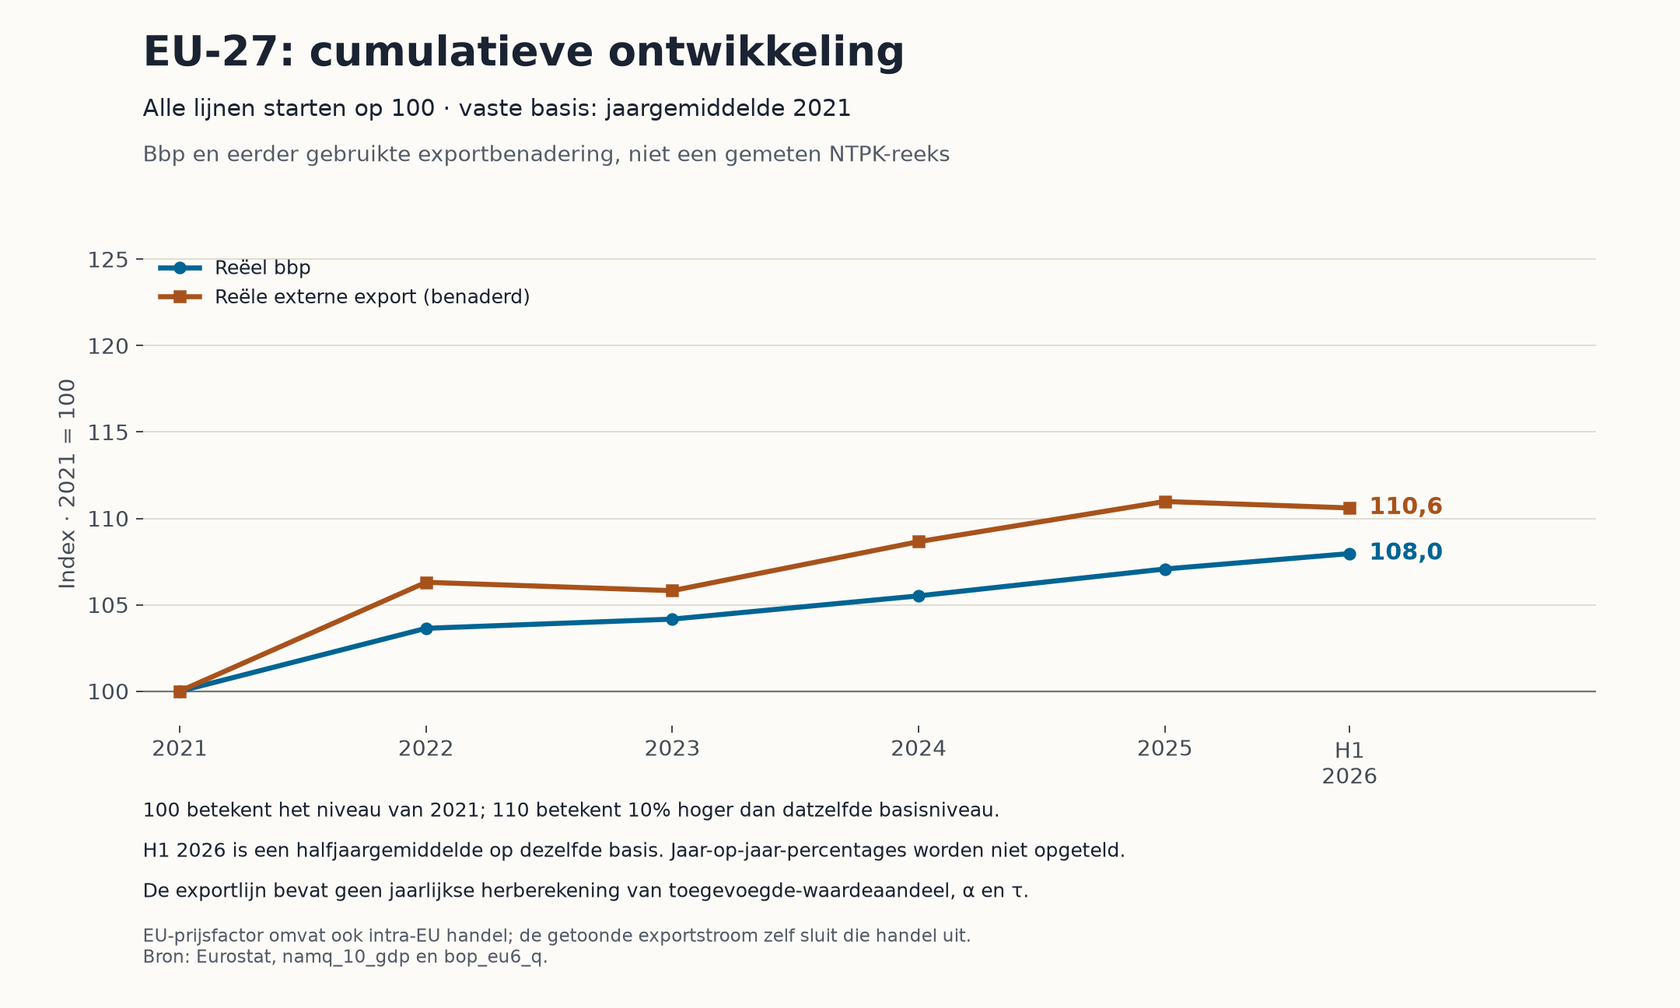
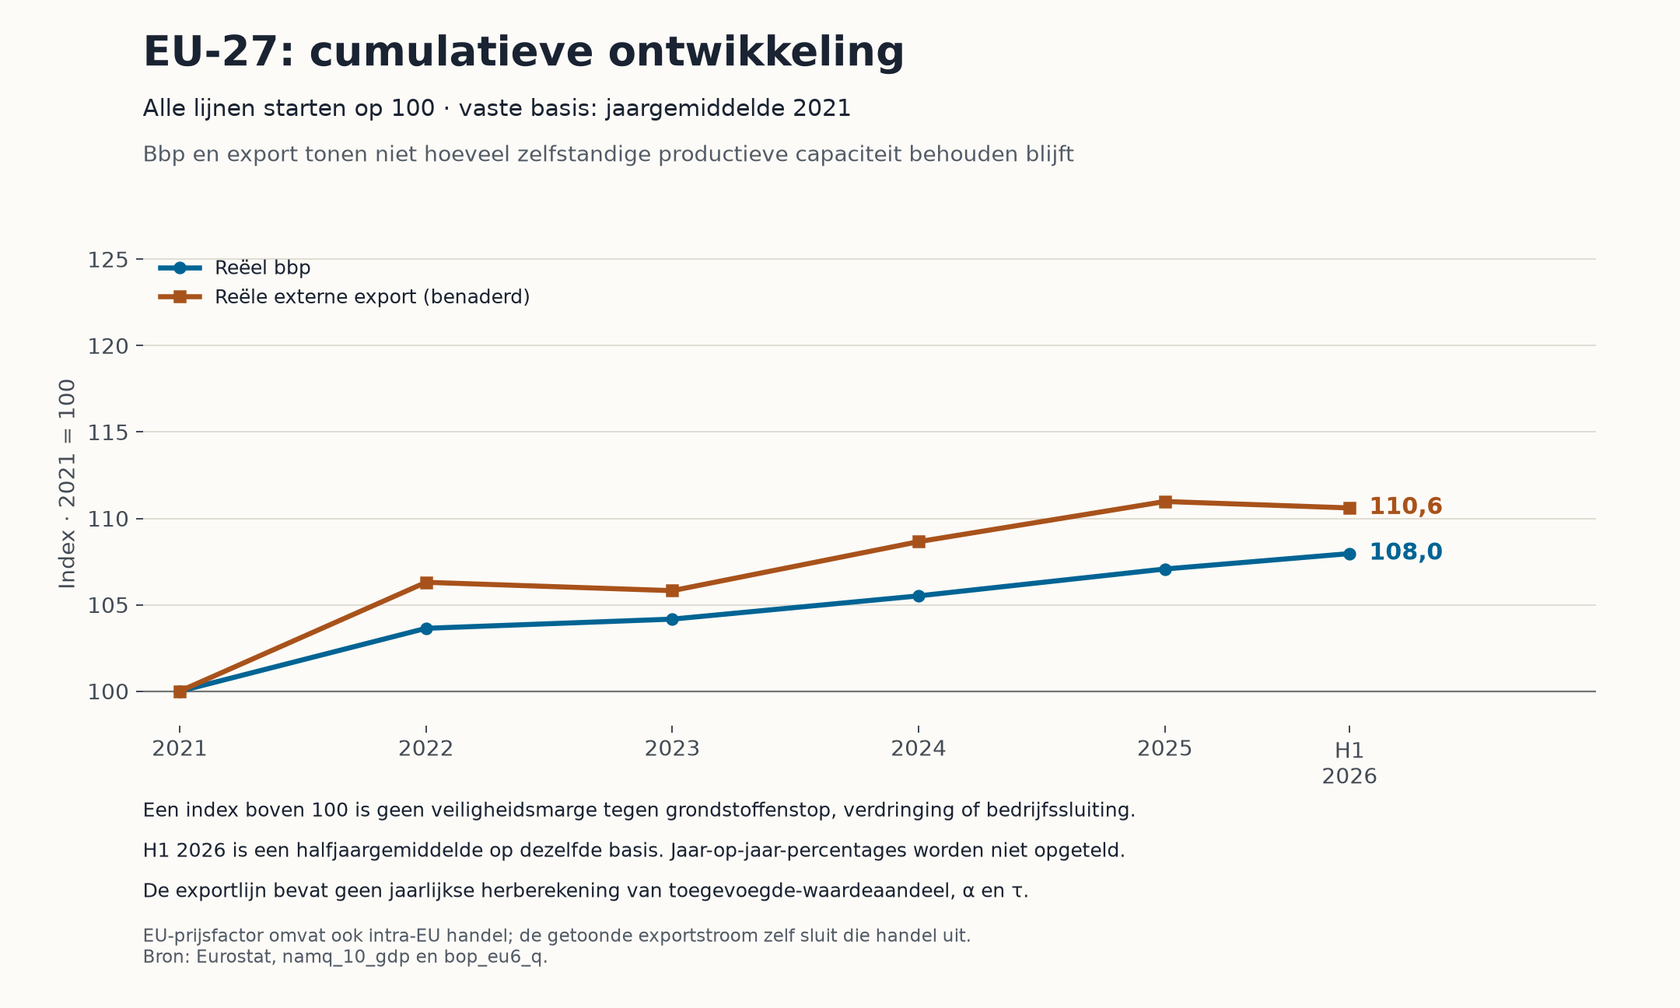
Herwerk China-risico en trek ongefundeerde NTPK-doortrekking in

Changed region(s): [[0.1551, 0.1235, 0.5894, 0.1852], [0.0931, 0.7716, 0.6514, 0.8333]]

diff --git a/nl/wat-opkomt/van-uitholling-naar-wederopbouw.html b/nl/wat-opkomt/van-uitholling-naar-wederopbouw.html
@@ -431,23 +431,27 @@ pensioenpotten, spaargeld, woningen en bedrijven. Een langzame
 uitholling is gevaarlijker dan een snelle crisis, omdat elke stap nog
 draaglijk lijkt en niemand ingrijpt, terwijl het verloren gaat wat nog
 te redden was.</p>
-<h3 id="europa-groeikloof">2.10 De cumulatieve groeikloof tussen Europa en de VS</h3>
-<p>Losse groeipercentages laten niet zien welk verschil zich over meerdere jaren opbouwt. Daarom beginnen alle ontwikkelingslijnen hier bij dezelfde startwaarde: <strong>het jaargemiddelde van 2021 is 100</strong>. De index voor iedere latere periode is 100 maal het reële niveau in die periode gedeeld door het reële jaargemiddelde van 2021. De basis verandert niet bij de overgang naar een halfjaar. De vergelijking betreft de Verenigde Staten en de EU-27. [73–76]</p>
-<p><strong>M/S. Het bbp is statistisch gemeten; de andere lijn is de eerder gebruikte exportbenadering, geen volledige NTPK-meting.</strong> Voor de VS gaat het om de reële uitvoer; voor de EU om extra-EU uitvoer, prijsgecorrigeerd met de prijsfactor van de totale uitvoer. Alleen de exportstroom is hier in de tijd berekend. Binnenlandse toegevoegde-waardeaandelen, productieve fractie α en lastendruk τ zijn niet jaarlijks opnieuw vastgesteld. Hun veranderingen kunnen de werkelijke NTPK anders laten verlopen. Deze ontbrekende berekening wordt niet vervangen door een NTPK-label. [73–76]</p>
-<figure class="growth-figure"><a href="/assets/wat-opkomt/van-uitholling-groei/VS-BBP-en-NTPK-trend.png?v=cumulatief-100" rel="noopener noreferrer" target="_blank"><img alt="Cumulatieve ontwikkeling Verenigde Staten, 2021 is 100. H1 2026: reëel bbp 112,5 en reële export 120,7. De exportlijn is geen volledige NTPK-meting." height="1296" loading="lazy" src="/assets/wat-opkomt/van-uitholling-groei/VS-BBP-en-NTPK-trend.png?v=cumulatief-100" width="2160"/></a><figcaption>Verenigde Staten: beide lijnen starten op 100. De punten voor 2021–2025 zijn jaargemiddelden; H1 2026 is het halfjaargemiddelde op dezelfde vaste basis.</figcaption></figure>
-<figure class="growth-figure"><a href="/assets/wat-opkomt/van-uitholling-groei/EU27-BBP-en-NTPK-trend.png?v=cumulatief-100" rel="noopener noreferrer" target="_blank"><img alt="Cumulatieve ontwikkeling EU-27, 2021 is 100. H1 2026: reëel bbp 108,0 en externe-exportbenadering 110,6. De exportbenadering ligt nog boven 2021 en is cumulatief sterker gestegen dan het bbp." height="1296" loading="lazy" src="/assets/wat-opkomt/van-uitholling-groei/EU27-BBP-en-NTPK-trend.png?v=cumulatief-100" width="2160"/></a><figcaption>EU-27: de exportbenadering valt recent iets terug, maar staat nog boven het niveau van 2021. Zij bewijst geen onafgebroken afbraak van de productieve kern.</figcaption></figure>
-<p>Op deze vaste basis bereikt het Amerikaanse bbp in H1 2026 een index van 112,5 en het Europese bbp 108,0: respectievelijk ongeveer 12,5% en 8,0% boven het jaargemiddelde van 2021. De exportlijnen staan op 120,7 voor de VS en 110,6 voor de EU. De Europese exportbenadering is sinds 2021 dus cumulatief sterker gestegen dan het Europese bbp. Voor de EU blijft de exportprijscorrectie een benadering: de prijsfactor omvat ook intra-EU handel, hoewel de getoonde exportstroom die handel uitsluit. [73–76]</p>
-<p><strong>De waarschuwing is een relatieve achterstand en recente verzwakking, niet een bewezen jarenlange instorting.</strong> De VS lopen in deze reeksen verder uit op Europa; in de Europese exportbenadering is bovendien een recente terugval zichtbaar. Maar de formulering “groei zonder versterking” ging op grond van deze grafieken te ver: de cumulatieve exportlijn ligt nog boven haar startniveau. Evenmin rechtvaardigt een exportbenadering op zichzelf een uitspraak over de volledige NTPK. Voor zo’n uitspraak moeten de jaarlijkse omzettingsfactoren worden meegerekend.</p>
-<p>Ook de mogelijkheid om bedrijven te vernieuwen telt mee. De OECD constateert dat buitensporige of onvoorspelbare ontslagkosten de verplaatsing van arbeid naar productievere activiteiten kunnen remmen, maar wijst ook op de waarde van behoud van bedrijfsspecifieke kennis. Dat ondersteunt de aandacht voor aanpassingsvermogen, zonder dat deze grafieken bewijzen welk deel van de groeikloof door ontslagbescherming of door één regering is veroorzaakt. [79]</p>
-<h3 id="groei-vooruitblik-2027">2.11 Verdere ontwikkelingslijnen naar 2027</h3>
-<p><strong>S. Vanaf H2 2026 zijn de lijnen gestippeld: het zijn ramingen en scenario’s, geen waarnemingen.</strong> Voor het bbp blijven de eerder gebruikte voorjaarsramingen 2026 van de Europese Commissie gehandhaafd: volledige jaargroei van 2,2% voor de VS en 1,1% voor de EU in 2026, gevolgd door 2,1% en 1,4% in 2027. De informatiegrens van deze ramingen is 4 mei 2026. Deze vaste ramingsversie is een rekenbasis, niet een nieuwe voorspelling op basis van alle informatie van eind september. [77]</p>
-<p>De bbp-index voor H2 2026 volgt uit twee maal het geraamde jaargemiddelde van 2026 minus het waargenomen gemiddelde van H1 2026. Voor 2027 wordt vervolgens het geraamde jaargemiddelde van 2026 met de officiële jaargroeivoet vermenigvuldigd. Een jaar-op-jaar-groeipercentage voor H1 wordt dus niet nogmaals boven op het volledige voorgaande jaar gezet. Met de vaste basis 2021 = 100 komt de bbp-index in 2027 uit op ongeveer 115,6 voor de VS en 109,8 voor de EU. [73, 74, 77]</p>
-<p>De verdere exportlijn is alleen een <strong>mechanisch als-dan-scenario</strong>: dezelfde jaar-op-jaar-verandering als in H1 2026 wordt toegepast op H2 2025 om H2 2026 te verkrijgen, en daarna op het jaargemiddelde van 2026 om 2027 te verkrijgen. De VS komen daarin op 127,1 en de EU op 107,8 in 2027. Dit is geen zelfstandige exportprognose en geen berekende NTPK-prognose. Het scenario laat zien wat voortzetting van de recente groeivoet zou betekenen, niet wat zeker of het waarschijnlijkst zal gebeuren. [75, 76]</p>
-<figure class="growth-figure"><a href="/assets/wat-opkomt/van-uitholling-groei/Vooruitblik-groei-H2-2026-2027.png?v=cumulatief-100" rel="noopener noreferrer" target="_blank"><img alt="Alle lijnen starten in 2021 op 100. Historie is doorgetrokken; H2 2026 en 2027 zijn gestippeld. In 2027: bbp VS 115,6 en EU 109,8; exportscenario VS 127,1 en EU 107,8. De exportlijn is geen NTPK-meting." height="1440" loading="lazy" src="/assets/wat-opkomt/van-uitholling-groei/Vooruitblik-groei-H2-2026-2027.png?v=cumulatief-100" width="2340"/></a><figcaption>Bekende en verdere ontwikkeling op één vaste basis. Links bbp-ramingen, rechts een mechanische voortzetting van de exporttrend. Jaar- en halfjaarwaarden zijn periodegemiddelden, geen eindejaarsstanden.</figcaption></figure>
-<p>Een afzonderlijk ongunstig energiescenario van de Europese Commissie verlaagt de Europese bbp-groei tot 0,7% in zowel 2026 als 2027. Dat zou op dezelfde basis een bbp-index van ongeveer 108,6 in 2027 betekenen, in plaats van 109,8 in de basisraming. Ook dat scenario voorspelt dus geen terugval tot onder het bbp-niveau van 2021. Het mag niet zonder gezamenlijke doorrekening worden samengevoegd met het exportscenario rechts in de grafiek. [77]</p>
-<p><strong>De bestuurlijke rekening.</strong> Een onderneming die haar productieve basis verwaarloost, noodzakelijke vernieuwing uitstelt en vervolgens alleen de totale geldstroom als succes presenteert, lost haar probleem niet op. Ook voor overheden verdwijnt de economische rekening niet doordat zij later wordt betaald. De vraag is daarom niet hoe lang het bbp nog positief blijft, maar of energie, investeringsruimte, vaardigheden en uitvoeringsvermogen op tijd worden versterkt.</p>
-<p><strong>De koers beoordelen vraagt om de juiste meetlat.</strong> De groeikloof en de recente Europese exportterugval zijn redenen om het investerings- en productieklimaat kritisch te beoordelen. Deze grafieken leveren echter geen bewijs dat de gehele Europese NTPK sinds 2021 afneemt. Een beleidswaarschuwing is sterker wanneer duidelijk blijft wat de cijfers werkelijk laten zien en wat nog berekend moet worden. De Commissie noemt snellere structurele hervormingen en een sterkere energiepositie als opwaartse kansen. [77]</p>
-<p class="growth-method">Rekenbasis: I(t) = 100 × X(t) / jaargemiddelde X(2021). Voor alle historische bbp-punten worden dezelfde kwartaalniveaus gebruikt, zodat verschillen door afgeronde jaarpercentages of bronversies niet worden opgestapeld. H1 2026 houdt dezelfde jaarbasis 2021; er wordt niet stilzwijgend overgeschakeld naar H1 2021 = 100. Doorgetrokken betekent beschikbaar bronmateriaal, niet dat de exportlijn een volledige NTPK-meting is. Er zijn geen ontbrekende NTPK-factoren ingevuld. Peildatum: 30 september 2026.</p>
+<h3 id="europa-groeikloof">2.10 Europa verliest terrein: een positief bbp is geen bescherming</h3>
+<p>Europa kan economisch afhankelijker worden terwijl het bbp nog groeit. Een positief totaalcijfer beantwoordt niet de beslissende vraag: kan Europa zijn productie, kennis en investeringen zelfstandig blijven dragen wanneer een leverancier of afzetmarkt politieke voorwaarden stelt? De berichten van 30 september 2026 maken die vraag concreet: China dreigt met een vastberaden reactie op nieuwe Europese beperkingen voor Chinese bedrijven en producten. [80]</p>
+<p><strong>M/S. De onderstaande lijnen beginnen allemaal bij 2021 = 100.</strong> Het bbp is een statistische volumereeks; de exportlijn is de eerder gebruikte reële-exportbenadering, géén volledige NTPK-reeks. Voor de EU wordt alleen uitvoer buiten de Unie meegenomen, met een benaderende prijscorrectie. Toegevoegde-waardeaandelen, productieve fractie α en effectieve lastendruk τ zijn niet jaarlijks doorgerekend. De grafieken kunnen daardoor niet aantonen hoeveel zelfstandige productieve draagkracht werkelijk behouden blijft. [73–76]</p>
+<figure class="growth-figure"><a href="/assets/wat-opkomt/van-uitholling-groei/VS-BBP-en-NTPK-trend.png?v=china-risico-100" rel="noopener noreferrer" target="_blank"><img alt="Verenigde Staten, 2021 is 100: cumulatief bbp en reële export tot H1 2026. Geen berekening van NTPK of strategische weerbaarheid." height="1296" loading="lazy" src="/assets/wat-opkomt/van-uitholling-groei/VS-BBP-en-NTPK-trend.png?v=china-risico-100" width="2160"/></a><figcaption>De Amerikaanse lijnen geven opgebouwde volumegroei weer, niet de zelfstandigheid of schokbestendigheid van de productieve kern.</figcaption></figure>
+<figure class="growth-figure"><a href="/assets/wat-opkomt/van-uitholling-groei/EU27-BBP-en-NTPK-trend.png?v=china-risico-100" rel="noopener noreferrer" target="_blank"><img alt="EU-27, 2021 is 100: cumulatief bbp en externe-exportbenadering tot H1 2026. De exportlijn valt recent terug; afhankelijkheid en verlies van productieve capaciteit zijn niet afzonderlijk gemeten." height="1296" loading="lazy" src="/assets/wat-opkomt/van-uitholling-groei/EU27-BBP-en-NTPK-trend.png?v=china-risico-100" width="2160"/></a><figcaption>Een hoger niveau dan in 2021 is geen bewijs van veiligheid: een cruciaal ontbrekend onderdeel kan productie stilleggen, ongeacht de eerdere groei.</figcaption></figure>
+<p>In H1 2026 ligt de Amerikaanse bbp-index op 112,5 en de Europese op 108,0; de exportlijnen liggen op respectievelijk 120,7 en 110,6. Dit zijn indexniveaus tegenover het gemiddelde van 2021, geen jaarlijkse groeipercentages. Ze laten zien dat de VS in deze reeksen verder zijn opgelopen, maar niet hoe gevoelig Europese productie is voor het wegvallen van Chinese toelevering. De EU-exportprijsbenadering gebruikt bovendien de prijsfactor van de totale uitvoer, die ook handel binnen de EU omvat. [73–76]</p>
+<p><strong>De meetfout zou zijn om deze lijnen als geruststelling te gebruiken.</strong> Exportvolume kan toenemen terwijl het aandeel lokaal gecreëerde toegevoegde waarde, de netto opbrengst of de vervangbaarheid van kritieke leveranciers verslechtert. Dat is een mogelijk mechanisme, geen hier al volledig gemeten uitkomst. Zonder de ontbrekende factoren mag de exportlijn niet worden opgewaardeerd tot NTPK, en mag een stijgende index evenmin als bewijs tegen industriële uitholling dienen.</p>
+<h3 id="china-afhankelijkheid">2.11 China maakt de Europese afhankelijkheid tot drukmiddel</h3>
+<p><strong>M. De dreiging is uitgesproken, de volledige nieuwe vergelding nog niet vastgesteld.</strong> Volgens Reuters waarschuwde het Chinese ministerie van Handel dat het vastberaden zal reageren wanneer de EU beperkingen tegen Chinese bedrijven of producten invoert. Aanleiding is een voorgesteld Europees handelsinstrument waarvoor Frankrijk en Duitsland pleiten. De concrete opties die Global Times noemt, waaronder onderzoeken naar discriminatie, ketenveiligheid en buitenlandse subsidies, worden in dit bericht toegeschreven aan een anonieme waarnemer; zij zijn niet hetzelfde als een officieel vastgesteld pakket. [80]</p>
+<p>De dreiging staat niet los van bestaande druk. De Europese Commissie meldt dat Chinese exportcontroles voor kritieke grondstoffen en bepaalde technologieën Europese productieketens nu al schaden. Zij beschrijft daarnaast ongelijke markttoegang, Chinese importvervanging, discriminerende omstandigheden voor Europese bedrijven en eisen die tot technologieoverdracht leiden. Dit is niet uitsluitend een risico voor later: de Commissie beschrijft reeds aanwezige belemmeringen. [81]</p>
+<p><strong>S. Europa kan tussen twee vormen van schade terechtkomen.</strong> Zonder voldoende bescherming en vernieuwing kunnen Europese producenten marktaandeel, marges en investeringsruimte verliezen. Wanneer Europa zich daartegen verdedigt, kan Chinese vergelding juist afzet of essentiële toelevering raken. Als die toelevering niet tijdig vervangbaar is, maakt de afhankelijkheid het duurder om een eigen handelsbeleid te voeren. Dit is het economische dwangmechanisme dat een gemiddelde groeilijn niet zichtbaar maakt.</p>
+<p>De analyse van CSIS van 29 september beschrijft aanhoudende problemen met Chinese uitvoervergunningen voor zeldzame aardmetalen en een assertievere inzet van tegenmaatregelen. De Europese reactie wordt tegelijk bemoeilijkt doordat belangen tussen lidstaten uiteenlopen. Mijn duiding is dat gerichte druk daarmee niet alleen bedrijven kan raken, maar ook het vermogen van Europa om gezamenlijk op te treden; het is geen bewijs dat China al iedere Europese beslissing beheerst. [82]</p>
+<h3 id="groei-vooruitblik-2027">2.12 Van handelsdruk naar blijvend verlies van productieve draagkracht</h3>
+<p><strong>S. De relevante drempels zijn operationeel en financieel.</strong> De eerste wordt overschreden wanneer een onmisbare grondstof of component opraakt voordat een technisch goedgekeurd alternatief kan worden geleverd. De tweede wordt overschreden wanneer de stilstand en aanpassingskosten langer of zwaarder zijn dan de beschikbare liquiditeit en financiering kunnen dragen. De derde ontstaat wanneer sluitingen ook gespecialiseerde leveranciers, vakmensen en kennis uiteen laten vallen. Dan volstaat het opheffen van een handelsbeperking niet meer om de oorspronkelijke capaciteit terug te krijgen.</p>
+<p>Deze keten kan zichzelf versterken: minder productie geeft minder kasstroom, minder kasstroom beperkt investeringen en behoud van mensen, en minder capaciteit maakt vervanging van buitenlandse leveranciers moeilijker. In dat scenario tast externe druk niet alleen de huidige omzet aan, maar ook de toekomstige verdienbasis. Het bbp-effect loopt via verloren binnenlandse toegevoegde waarde en kan vervolgens doorwerken in toeleveranciers, lonen, investeringen en belastingopbrengsten. Er bestaat in deze uitwerking geen berekende vaste één-op-éénverhouding tussen NTPK-verlies en bbp-verlies.</p>
+<p><strong>De eerdere mechanische exportdoortrekking is ingetrokken.</strong> Het herhalen van één halfjaargroeivoet berekende geen jaarlijkse NTPK-factoren, geen Chinese tegenmaatregelen en geen omslagpunten bij bedrijven. Daaruit mocht geen NTPK-verwachting voor H2 2026 of 2027 worden afgeleid. Een getekende daling met zelfgekozen percentages zou dezelfde fout in de andere richting zijn; ontbrekende waarden worden daarom niet ingevuld.</p>
+<figure class="growth-figure"><a href="/assets/wat-opkomt/van-uitholling-groei/Vooruitblik-groei-H2-2026-2027.png?v=china-risico-100" rel="noopener noreferrer" target="_blank"><img alt="Cumulatieve vergelijking vanaf 2021 is 100. Links historische bbp-lijnen met gestippeld de gedateerde EC-voorjaarsraming. Rechts stopt de exportreeks bij H1 2026: geen berekende NTPK-prognose voor H2 2026 of 2027. De Chinese escalatie is niet gekwantificeerd." height="1440" loading="lazy" src="/assets/wat-opkomt/van-uitholling-groei/Vooruitblik-groei-H2-2026-2027.png?v=china-risico-100" width="2340"/></a><figcaption>Doorgetrokken lijnen: beschikbaar historisch materiaal. Stippellijnen links: uitsluitend het gedateerde bbp-referentiepad uit de EC-voorjaarsraming. De ongeschikte exportdoortrekking rechts is verwijderd; een ontbrekende NTPK-berekening is geen nulrisico.</figcaption></figure>
+<p>De overblijvende bbp-stippellijnen gebruiken de voorjaarsraming 2026 van de Europese Commissie met informatiegrens 4 mei 2026, aangevuld met de waargenomen eerste helft om H2 rekenkundig af te leiden. Zij zijn dus geen berekening van de nieuwe Chinese dreiging van eind september. Ook het afzonderlijke energiescenario uit die publicatie is geen volledige China-stresstest. Deze paden mogen niet worden gebruikt als geruststellende voorspelling van wat Europa onder verdere economische druk te wachten staat. [77, 80]</p>
+<p><strong>De bestuurlijke rekening.</strong> Een onderneming die de afhankelijkheid van haar kritieke leveranciers negeert en alleen naar de totale omzet kijkt, kan haar voortbestaan verkeerd beoordelen. Voor overheden is het evenmin voldoende om een positief bbp-cijfer te presenteren wanneer productie, kennis en handelingsvrijheid onder druk staan. Financiering kan tijd kopen; zij vervangt geen ontbrekende grondstof, werkende productielijn of verdwenen leverancier.</p>
+<p><strong>Mijn oordeel: Europa moet handelen vóór tijdelijke druk structurele schade wordt.</strong> De combinatie van bestaande ketenbelemmeringen en expliciete vergeldingsdreiging maakt afwachten gevaarlijk. De beslissende vraag is niet of een index nog boven 100 staat, maar of Europa voldoende productieve capaciteit en vervangingsmogelijkheden behoudt om politieke druk te weerstaan. Die capaciteit versterken en verliezen beperken vraagt om handelen voordat voorraden, financiële buffers en complete productienetwerken verdwijnen. De dreiging rechtvaardigt urgentie; zij rechtvaardigt geen verzonnen uitkomsten. [80–82]</p>
+<p class="growth-method">Afbakening: M markeert gerapporteerde gebeurtenissen en statistische waarnemingen; S markeert voorwaardelijke mechanismen en scenario’s. De historische index is I(t) = 100 × X(t) / jaargemiddelde X(2021), met dezelfde basis voor jaar- en halfjaarpunten. NTPK blijft NEPK plus het deel van dezelfde productieve kern in buitenlands eigendom; een exportreeks vervangt die berekening niet. Voor toekomstige NTPK, de omvang van eventuele vergelding en het bijbehorende bbp-verlies zijn hier geen onderbouwde getallen ingevuld. Peildatum: 30 september 2026.</p>
 <h2 id="frankrijk-als-eerste-breukpunt-en-de-volgorde-daarna">3.
 Frankrijk als eerste breukpunt en de volgorde daarna</h2>
 <p>Het scenario is dat een breuk tussen rijk en arm eerst in Frankrijk
@@ -909,7 +913,10 @@ den Rücken. <a href="https://www.mallorcamagazin.com/nachrichten/lokales/2026/0
 <p class="source-entry">[76] Eurostat — geconsolideerde extra-EU uitvoer goederen en diensten, bop_eu6_q, credit, SCA, EU27_2020/EXT_EU27_2020. <a href="https://ec.europa.eu/eurostat/databrowser/view/bop_eu6_q/default/table" rel="noopener noreferrer" target="_blank">https://ec.europa.eu/eurostat/databrowser/view/bop_eu6_q/default/table</a></p>
 <p class="source-entry">[77] Europese Commissie — European Economic Forecast, Spring 2026, Institutional Paper 341, mei 2026, informatiegrens 4 mei 2026; bbp-basisramingen VS/EU en ongunstig energiescenario. <a href="https://economy-finance.ec.europa.eu/document/download/3360898c-cd40-46c0-b170-7adfcb993add_en?filename=ip341_en.pdf" rel="noopener noreferrer" target="_blank">https://economy-finance.ec.europa.eu/document/download/3360898c-cd40-46c0-b170-7adfcb993add_en?filename=ip341_en.pdf</a></p>
 <p class="source-entry">[78] Reuters — OECD expects AI boom to help offset Middle East energy shock for now, 23 september 2026. <a href="https://www.reuters.com/world/china/oecd-expects-ai-boom-help-offset-middle-east-energy-shock-now-2026-09-23/" rel="noopener noreferrer" target="_blank">https://www.reuters.com/world/china/oecd-expects-ai-boom-help-offset-middle-east-energy-shock-now-2026-09-23/</a></p>
-<p class="source-entry">[79] OECD — Good Jobs for All in a Changing World of Work, 2018; ontslagkosten, arbeidsmobiliteit, productiviteit en bedrijfsspecifieke kennis. <a href="https://www.oecd.org/content/dam/oecd/en/publications/reports/2018/12/good-jobs-for-all-in-a-changing-world-of-work_g1g995e1/9789264308817-en.pdf" rel="noopener noreferrer" target="_blank">https://www.oecd.org/content/dam/oecd/en/publications/reports/2018/12/good-jobs-for-all-in-a-changing-world-of-work_g1g995e1/9789264308817-en.pdf</a></p></article>
+<p class="source-entry">[79] OECD — Good Jobs for All in a Changing World of Work, 2018; ontslagkosten, arbeidsmobiliteit, productiviteit en bedrijfsspecifieke kennis. <a href="https://www.oecd.org/content/dam/oecd/en/publications/reports/2018/12/good-jobs-for-all-in-a-changing-world-of-work_g1g995e1/9789264308817-en.pdf" rel="noopener noreferrer" target="_blank">https://www.oecd.org/content/dam/oecd/en/publications/reports/2018/12/good-jobs-for-all-in-a-changing-world-of-work_g1g995e1/9789264308817-en.pdf</a></p>
+<p class="source-entry">[80] Reuters — China vows response if EU introduces moves targeting Chinese trade, bericht van 30 september 2026, gepubliceerd 29 september om 23:32 UTC; officiële Chinese waarschuwing en onderscheid met de door Global Times genoemde opties. <a href="https://www.reuters.com/world/asia-pacific/china-vows-response-if-eu-introduces-moves-targeting-chinese-trade-2026-09-29/" rel="noopener noreferrer" target="_blank">https://www.reuters.com/world/asia-pacific/china-vows-response-if-eu-introduces-moves-targeting-chinese-trade-2026-09-29/</a></p>
+<p class="source-entry">[81] Europese Commissie — EU trade relations with China, geraadpleegd 30 september 2026; bestaande exportcontroles, verstoring van Europese ketens, ongelijke markttoegang en importvervanging. <a href="https://policy.trade.ec.europa.eu/eu-trade-relationships-country-and-region/countries-and-regions/china_en" rel="noopener noreferrer" target="_blank">https://policy.trade.ec.europa.eu/eu-trade-relationships-country-and-region/countries-and-regions/china_en</a></p>
+<p class="source-entry">[82] CSIS — EU-China Relations Face an Existential Test, but Escalation Is Not Inevitable, 29 september 2026; analyse van uitvoervergunningen, tegenmaatregelen en uiteenlopende Europese belangen. <a href="https://www.csis.org/analysis/eu-china-relations-face-existential-test-escalation-not-inevitable" rel="noopener noreferrer" target="_blank">https://www.csis.org/analysis/eu-china-relations-face-existential-test-escalation-not-inevitable</a></p></article>
     </div>
   </main>
   <footer><a href="/nl/">Het Open Vizier</a><a href="#main">Terug naar boven</a><button id="theme" type="button" aria-label="Wissel tussen lichte en donkere weergave">Licht / donker</button></footer>
